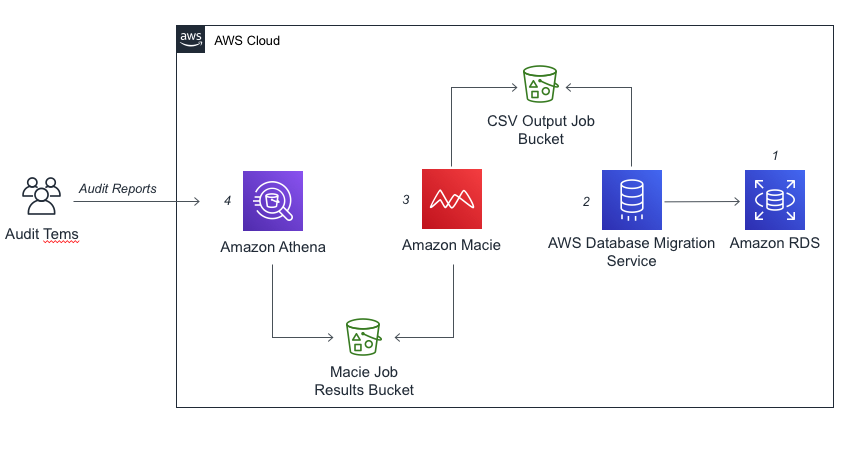
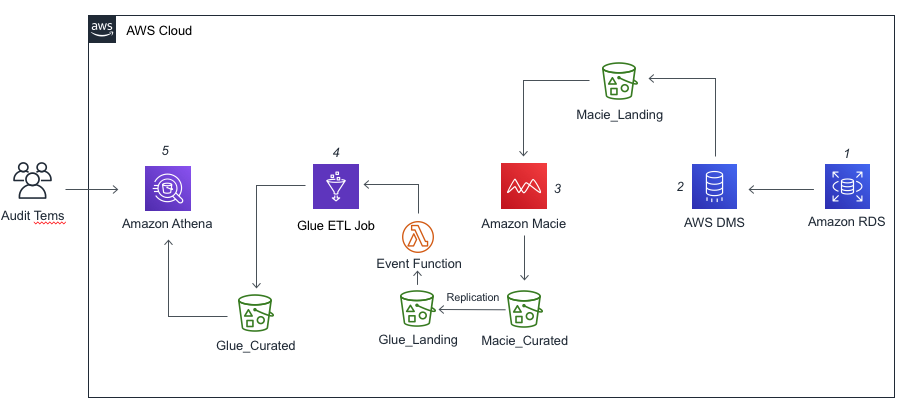
Project Update

diff --git a/README.md b/README.md
@@ -4,17 +4,17 @@
 
 Amazon Macie is a fully managed data security and data privacy service that uses machine learning and pattern matching to discover and protect your sensitive data in AWS.
 Today it's only possible to run Amazon Macie Jobs against S3 buckets, so this solution will shows how to discover and classify relational database data from RDS using AWS Database Migration
-and also will use Amazon Athena and Amazon QuickSight to simplify the audit assessments on Amazon Macie Jobs results.
+and also will use AWS Glue and Amazon Athena to simplify the audit assessments on Amazon Macie Jobs results.
 
 ![solution](images/rds2macie.png)
 
 As you see, the architecture from the solution that we will show you how to build is described as:
 
-1.	Classic Models demo relational database on RDS for MySQL.
-2.	DMS task that connect to Classic Models Demo database and transform the data into a several CSV files and load into S3 bucket.
-3.	Once the DMS task has being succeed, the Amazon Macie classification job will start to discover and classified the data and put the results into other S3 bucket. 
-4.	Once the classification job results are delivered, Amazon Athena will use Hive to create a table from the job classification results bucket.
-5.	
+1.	ClassicModels relational database on RDS for MySQL.
+2.	DMS task that connect to Classic Models database and transforms the data into several CSV files and load them into a S3 bucket.
+3.	Once the DMS task has succeed, a Macie classification job will start to discover the data and put the results into another S3 bucket.
+4.	Once the classification job results are delivered, an S3 SRR (Sample-region Replication) will replicate the job results objects to an staging bucket that will start an event that invokes a Lambda Function, this function will start an ETL job from Glue and transform the JSON file into Parquet and deliver into the data lake bucket.
+5.	Once the ETL job has succeed, it’s time to run SQL queries using Amazon Athena.
 
 To get started you will need an IAM user with the following access:
 
@@ -24,17 +24,17 @@ To get started you will need an IAM user with the following access:
 - Amazon RDS
 - Amazon Athena
 - Amazon S3
-- Amazon QuickSight
+- Amazon Glue
+- Amazon EC2
 
 _Note: Tested in the N. Virginia region (us-east-1)._
 
 ### Agenda
-1. Enable Amazon Macie - 5 mins
-2. Run the initial cloudformation template - 10 mins
-3. Configure Macie to export findings to an S3 Bucket - 5 mins
-4. Load the sample database into RDS - 1 min
-4. Create a classification job to scan all database exported- 5 mins
-5. Create a External Database for Amazon Athena run SQL on Macie Results data - 5mins
+1. Enable Amazon Macie - 2 mins
+2. Run the initial SAM template - 10 mins
+3. Configure Macie to export findings to an S3 Bucket - 2 mins
+4. Create a classification job to scan all database exported - 5 mins
+5. Exploring Macie Results using SQL on Amazon Athena - 5 mins
 
 ## Enable Amazon Macie
 Your first step is to enable Amazon Macie.  Later we will create data classification jobs to investigate the contents of your S3 buckets and Macie will also do analysis on your S3 buckets and report on any configuration changes.
@@ -44,47 +44,27 @@ Your first step is to enable Amazon Macie.  Later we will create data classifica
 3. Click on the **Enable Macie** button.  If not present then Macie is already enabled.
  
 Macie is now enabled and has begun to collect information about the S3 buckets in the account.
-
-<!--## CloudFormation-->
-<!--1. Download the deploy/template.yaml file in your computer-->
-<!--2. Open the [CloudFormation](https://console.aws.amazon.com/cloudformation/home?region=us-east-1) console (us-east-1).-->
-<!--3. On the Welcome page, click on **Create stack** button.-->
-<!--4. On the Step 1 - Specify template: Choose Upload a template file, click on **Choose file** button and select the **template.yaml**.-->
-<!--5. On the Step 2 - Specify stack details: Enter the Stack name as **RDS2MacieDemo** and define your MySQL admin password on **DBPassword**.-->
-<!--6. On the Step 3 - Configure stack options: Just click on **Next** button.-->
-<!--7. On the Step 4 - Review: Enable the checkbox **I acknowledge that AWS CloudFormation might create IAM resources with custom names.**, and click on **Create Stack** button.-->
-<!--8. Wait for the stack get into status **CREATE_COMPLETE**.-->
-
-<!--_Note: Under the Outputs tab, take a note of **EndpointAddress** and **EndpointPort** value_-->
   
 
-## Using Cloud9 environment
-1. Open the [Cloud9](https://console.aws.amazon.com/cloud9/home?region=us-east-1) console (us-east-1).
-2. In **Your environments**, click in the **Open IDE** button on the envionment that CloudFormation created (eg. RDS2MacieDemo-environment.
+## Deploying Cloud9 environment
+
+1.	Open the [Cloud9](https://console.aws.amazon.com/cloud9/home?region=us-east-1) console (us-east-1). 
+2.	On the Step 1 - Name environment: Enter an environment name (e.g RDS2MacieEnv).
+3.	On the Step 2 - Configure settings: Just click on **Next** button.
+4.	On the Step 3 - Review: Check the resources being created, and click on **Create Environment** button
+
+## Deploying SAM template
+
+
+1. Still in Cloud9 console, in **Your environments**, click in the **Open IDE** button on the envionment that was created (eg. RDS2MacieEnv).
 2. Once your envionment was open, select the **bash** tab and execute the following commands:
 
 ```
-git clone https://github.com/brunormsilveira/rds-dataclassification-macie.git
+git clone https://github.com/brunormsilveira/data-classification-pipeline.git
 
 aws s3 mb s3://<SAM_BUCKET_NAME>
 sam deploy --capabilities CAPABILITY_NAMED_IAM --s3-bucket <SAM_BUCKET_NAME> --parameter-overrides DBPassword=<DB_PASSWORD>
 ```
-
-## Deploying ClassicModels Database 
-
-1. Once with the code in your envionment, enter into repository folder.
-
-```
-cd rds-dataclassification-macie/
-```
-
-2. Now let's load the data from classicmodels database into RDS instance.
-
-```
-mysql -u admin -h [ENDPOINT-FROM-RDS-INSTANCE] classicmodels -p < deploy/classicmodels.sql
-
-```
-_Note: when ask you the password from MySQL, use the password that you defined on **DBPassword** paramenter in the CloudFormation template._
 
 ## Running DMS Task
 
@@ -94,7 +74,6 @@ _Note: when ask you the password from MySQL, use the password that you defined o
 4. Click on **Actions** and choose **Restart/Resume**.
 
 _Note: when the task status turn to **Load complete**, it's time to check your output S3 bucket._ 
-
 
 ## Checking S3 output bucket
 
@@ -118,10 +97,6 @@ _Note If is all ok, let's go to Amazon Macie._
 
 ## Configure Amazon Macie to export findings to an S3 Bucket
 
-Now that the environment is setup you need to complete the setup of Amazon Macie.  When Amazon Macie runs a data discovery job, it creates a discovery result record for each Amazon S3 object that the job analyzes or attempts to analyze. This includes objects that don't contain sensitive data, and therefore don't produce a finding, and objects that Macie isn't able to analyze due to issues such as permissions errors or use of an [unsupported format](https://docs.aws.amazon.com/macie/latest/user/discovery-supported-formats.html). If an object does contain sensitive data, the record indicates where Macie found each occurrence of sensitive data in the object: the line number for text files; the page number for Adobe Portable Document Format (PDF) files; or, the record number for Apache Avro object containers and Apache Parquet files.
-
-To access these records and enable long-term storage and retention of them, you can configure Macie to store the records in an S3 bucket and encrypt them using an AWS Key Management Service (AWS KMS) key. If you do this, Macie starts writing your discovery results to JSON Lines files, which it adds to the S3 bucket as GNU Zip (GZ) files. Consequently, the S3 bucket can serve as a definitive, long-term repository for all of your discovery results. If you don't configure this type of repository for your discovery results, Macie stores the results for 90 days. 
-
 1. Go to the [Amazon Macie](https://console.aws.amazon.com/macie/home?region=us-east-1) console (us-east-1).
 2. Click on [Settings](https://console.aws.amazon.com/macie/home?region=us-east-1#/settings) in the left hand menu.
 3. Click on the **Configure Now** option under the section ***Respository for discovery results***.
@@ -140,8 +115,6 @@ To access these records and enable long-term storage and retention of them, you 
 
 
 ## Create the Data Classification Job
-
-Now we are going to create a Data Classification job so we can evaluate the contents of our S3 bucket. The job that we will create will run once and it will evaluate the complete contents of our S3 buckets to see if we have [PII (Perfonal Identifiable Information)](https://docs.aws.amazon.com/macie/latest/userguide/macie-classify-objects-pii.html).  This job will use only the managed identifiers available with Amazon Macie, the complete list of managed identifiers is available [here](https://docs.aws.amazon.com/macie/latest/user/managed-data-identifiers.html).
 
 1. Go to the [Macie console](https://console.aws.amazon.com/macie/home?region=us-east-1).
 2. To begin, select the **S3 bucket** option in the left hand menu.
@@ -168,59 +141,36 @@ Once that your job has complete, you can select the check box of the job and cli
 _Note You can navigate in the findings and click in the each checkbox and see the details._
 
 
-## Creating External Table from Macie Job Results with Amazon Athena
+## Exploring Macie Results using SQL on Amazon Athena
 
-1. Go to the [Athena console](https://console.aws.amazon.com/athena/home?region=us-east-1#query) and open the *Query editor".
-2. It will show a message **Before you run your first query, you need to set up a query result location in Amazon S3. Learn more**. Click in the message link.
-3. In the **Settings** windows, put the address from the S3 bucket that you want to store the query results.
-4. Click in **Save**.
-5. Now, let's create the **macie_results** table to start to query our results. 
-6. Select the **macidedb** in the **Database** section.
-7. Paste the content bellow into **Query Editor**:
+1.	Go to the [Athena console](https://console.aws.amazon.com/athena/home?region=us-east-1#query) and open the **Query editor**.
+2.	It will show a message **Before you run your first query, you need to set up a query result location in Amazon S3. Learn more**. Click in the message link.
+3.	In the **Settings** windows, put the address from the S3 bucket that you want to store the query results.
+4.	Click in **Save**.
+5.	Paste the content bellow into **Query Editor**:
+
 
 ```
-CREATE EXTERNAL TABLE `macie_results`(
-  `schemaversion` string COMMENT 'from deserializer', 
-  `id` string COMMENT 'from deserializer', 
-  `accountid` string COMMENT 'from deserializer', 
-  `partition` string COMMENT 'from deserializer', 
-  `region` string COMMENT 'from deserializer', 
-  `type` string COMMENT 'from deserializer', 
-  `title` string COMMENT 'from deserializer', 
-  `severity` struct<score:int,description:string> COMMENT 'from deserializer', 
-  `createdat` string COMMENT 'from deserializer', 
-  `resourcesaffected` array<string> COMMENT 'from deserializer', 
-  `category` string COMMENT 'from deserializer', 
-  `classificationdetails` array<string> COMMENT 'from deserializer')
-ROW FORMAT SERDE 
-  'org.openx.data.jsonserde.JsonSerDe' 
-STORED AS INPUTFORMAT 
-  'org.apache.hadoop.mapred.TextInputFormat' 
-OUTPUTFORMAT 
-  'org.apache.hadoop.hive.ql.io.IgnoreKeyTextOutputFormat'
-LOCATION
-  's3://[S3BucketName]/AWSLogs/[AWS-ACCOUNT-ID]'
+SELECT severity.description as severity, accountid, region, resourcesAffected FROM dcp.dcp-glue-curated;
   
 ```
 
-_You need to replace [S3BucketName] and [AWS-ACCOUNT-ID] (eg. s3://rds2macie-results-853823832/AWSLogs/999999999999)._
 
+6. Click on the **Run query** button.
 
-7. Click on the **Run query** button.
-
-Note Now you can start to run SQL query in your Macie Results.
-
-As your environment grows this blog post on [Top 10 Performance Tuning Tips for
-Amazon Athena](https://aws.amazon.com/blogs/big-data/top-10-performance-tuning-tips-for-amazon-athena/) can help you apply partitioning of data and how to consolidate data
-into larger files if needed.
+_Note Now you can start to run SQL query in your Macie Results.
 
 ## Clean up
-1. Delete the solution stack in the following order: Disable Amazon Macie
-2. Open the CloudFormation console at https://console.aws.amazon.com/cloudformation
-3. Select **RDS2MacieDemo** Stack and click on **Delete** button
+1. Delete the solution stack in the following order: **Disable Amazon Macie**.
+2. Open the CloudFormation console at https://console.aws.amazon.com/cloudformation.
+3. Select **XXX** Stack and click on **Delete** button.
 
 
 ## Reference links
+
+https://docs.aws.amazon.com/macie/latest/userguide/macie-classify-objects-pii.html
+https://docs.aws.amazon.com/macie/latest/APIReference/jobs.html 
+https://docs.aws.amazon.com/macie/latest/user/custom-data-identifiers.html
 
 
 ## License summary
